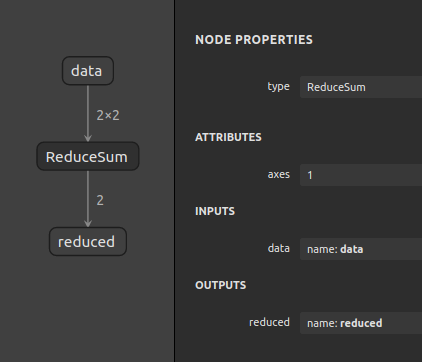
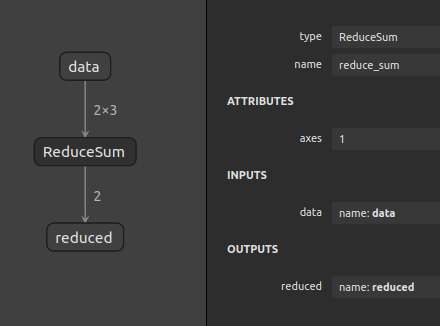
Final slides

diff --git a/index.html b/index.html
@@ -30,8 +30,8 @@
             <br>
             <div class="accent small">
                 <i class="fas fa-user white"></i>&nbsp;&nbsp;Tomasz Dołbniak &nbsp;&nbsp;&nbsp;&nbsp;
-                <i class="fas fa-microphone white"></i>&nbsp;&nbsp;/ event /&nbsp;&nbsp;&nbsp;&nbsp;
-                <i class="fas fa-map-marker-alt white"></i>&nbsp;&nbsp;/ location / year /
+                <i class="fas fa-microphone white"></i>&nbsp;&nbsp;MUC++&nbsp;&nbsp;&nbsp;&nbsp;
+                <i class="fas fa-map-marker-alt white"></i>&nbsp;&nbsp;Gdańsk, April 2021
             </div>
         </section>
         <section data-transition="fade-out">
@@ -213,15 +213,7 @@
                 <h3>ReduceSum of a 2D tensor</h3>
                 <div class="row">
                     <img src="img/reduce.png" style="margin-right: 1rem; margin-top: 0;">
-                    <pre>
-                        <code class="loose">const auto data = Tensor({1, 2, 3, 4, 5, 6}, {2, 3});
-// [[1 2 3],
-//  [4 5 6]]
-const auto over_axis_0 = ReduceSum(data, 0);
-// [5, 7, 9]
-const auto over_axis_1 = ReduceSum(data, 1);
-// [6, 15]</code>
-                    </pre>
+                    <img src="img/reduce_sum.png" alt="">
                 </div>                
             </section>
             <section><h2>Questions?</h2></section>
@@ -394,7 +386,7 @@ const auto over_axis_1 = ReduceSum(data, 1);
                 <img src="img/data_types_performance.png" alt=""><br>
             </section>
             <section>
-                <h3>Benefits</h3>
+                <h3>Quantization benefits</h3>
                 <ul class="loose">
                     <li>Less power (edge devices)</li>
                     <li class="fragment fade-up">Smaller chip</li>
@@ -436,7 +428,7 @@ const auto over_axis_1 = ReduceSum(data, 1);
                 <h4 style="letter-spacing: .7rem;">on the inside</h4>
                 <br>
                 <div>
-                    <a href="https://tomdol.github.io/dl_on_the_inside/">tomdol.github.io/dl_on_the_inside</a>
+                    <a href="https://tomdol.github.io/dl-on-the-inside/">tomdol.github.io/dl-on-the-inside</a>
                 </div>
             </section>
             <section>
@@ -455,6 +447,7 @@ const auto over_axis_1 = ReduceSum(data, 1);
                     <li><a href="https://github.com/onnx/models">github.com/onnx/models</a></li>
                     <li><a href="https://www.youtube.com/playlist?list=PLZHQObOWTQDNU6R1_67000Dx_ZCJB-3pi">3Blue1Brown - neural nets</a></li>
                     <li><a href="https://www.coursera.org/specializations/deep-learning">coursera.org/specializations/deep-learning</a></li>
+                    <li><a href="https://infoshare.pl/">infoshare.pl</a></li>
             </section>
         </section>
     </div>
